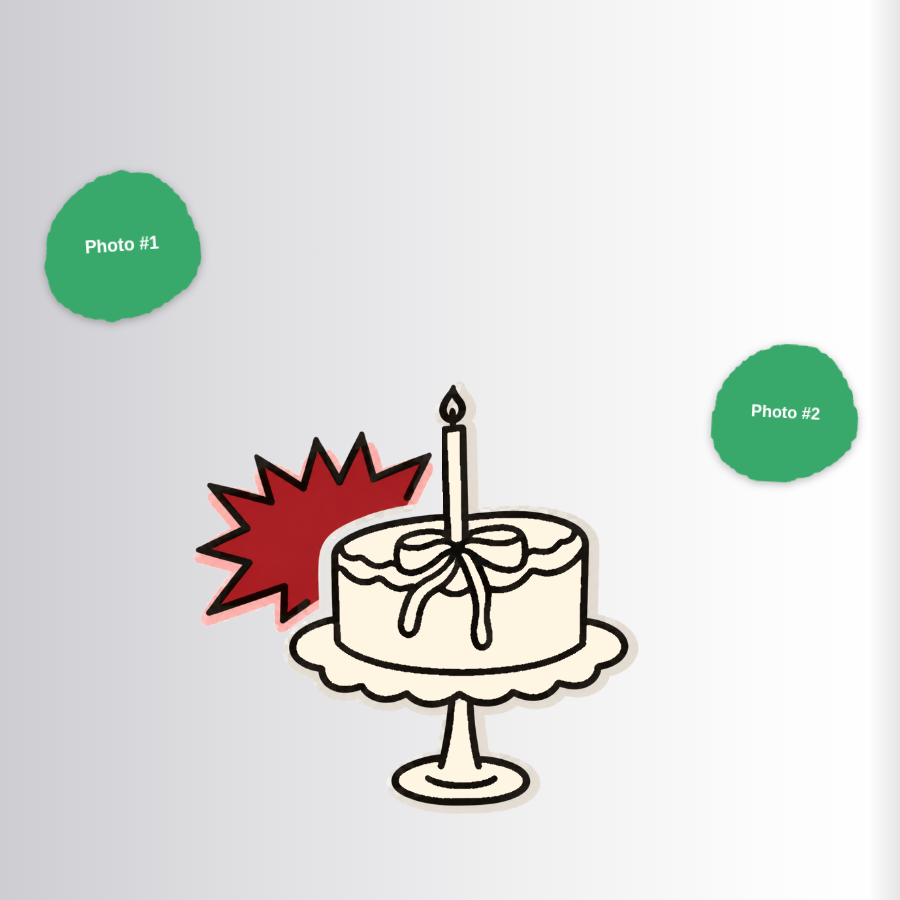
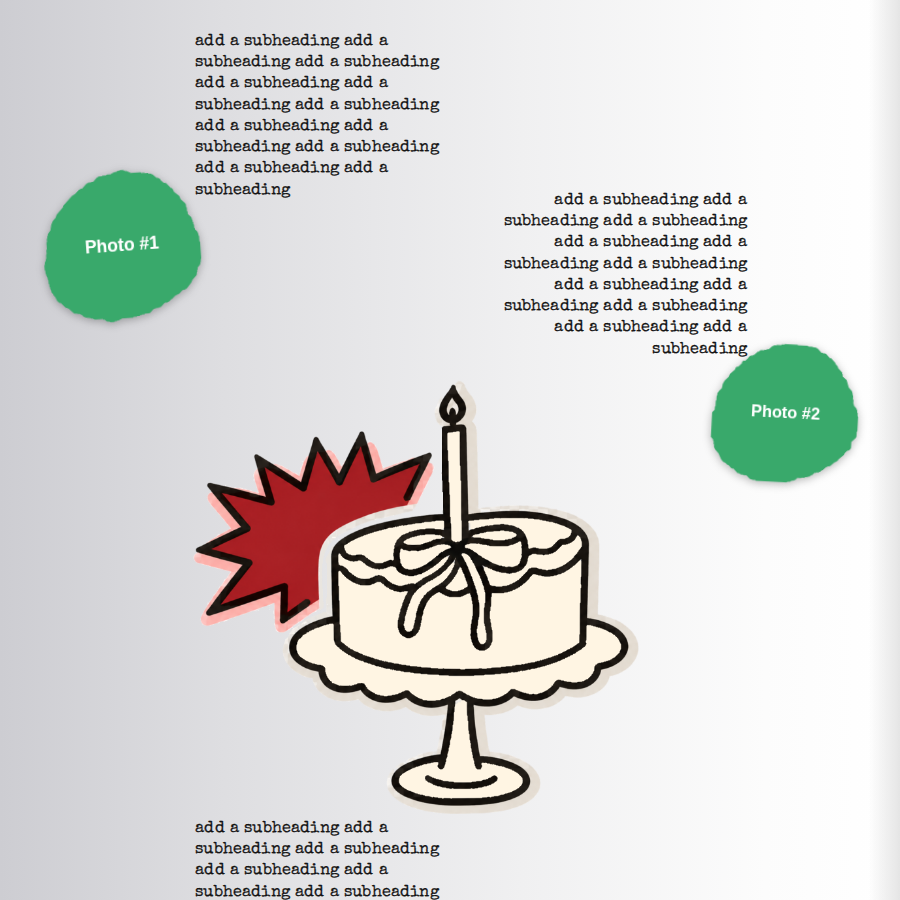
Fix exact website template previews
Decode the original embedded HTML at build time, wait for template content before capture, and regenerate real template preview screenshots instead of blank fallback covers.

Changed region(s): [[0.56, 0.2178, 0.84, 0.4044], [0.2178, 0.0311, 0.4978, 0.2178], [0.2178, 0.9022, 0.4978, 1.0]]

diff --git a/src/components/website-templates/WebsiteTemplatePreviewRenderer.tsx b/src/components/website-templates/WebsiteTemplatePreviewRenderer.tsx
@@ -1,9 +1,7 @@
 "use client";
 
-import type { ReactNode } from "react";
+import { useEffect, useState, type ReactNode } from "react";
 import { BirthdayTodayTemplate } from "./BirthdayTodayTemplate";
-import { ForeverAndEverTemplate } from "./ForeverAndEverTemplate";
-import { LoveHeartTemplate } from "./LoveHeartTemplate";
 import { LoveOfMyLifeTemplate } from "./LoveOfMyLifeTemplate";
 import { OurCalendarTemplate } from "./OurCalendarTemplate";
 import { PhotoAlbumTemplate } from "./PhotoAlbumTemplate";
@@ -27,13 +25,95 @@ export function WebsiteTemplatePreviewRenderer({
 }: {
   slug: WebsiteTemplatePreviewSlug;
 }) {
+  const [previewReady, setPreviewReady] = useState(false);
+  const usesStaticHtml = slug === "love-heart" || slug === "forever-and-ever";
+
+  useEffect(() => {
+    let cancelled = false;
+
+    // The legacy animated templates use their exact static HTML in the iframe.
+    // The capture script verifies that source before opening this route; mark
+    // the outer shell ready after hydration and wait for the reveal animation.
+    if (usesStaticHtml) {
+      setPreviewReady(true);
+      return () => {
+        cancelled = true;
+      };
+    }
+
+    const waitForImages = async () => {
+      const images = Array.from(document.images);
+      images.forEach((image) => { image.loading = "eager"; });
+      await Promise.all(images.map(async (image) => {
+        if (!image.complete) {
+          await new Promise<void>((resolve) => {
+            image.addEventListener("load", () => resolve(), { once: true });
+            image.addEventListener("error", () => resolve(), { once: true });
+            window.setTimeout(resolve, 12_000);
+          });
+        }
+        if (image.currentSrc && image.complete && image.naturalWidth === 0) {
+          // A failed optional/remote image should not prevent the rest of the
+          // real template from being captured. Keep its natural fallback state.
+          console.warn(`Preview image could not be loaded: ${image.currentSrc}`);
+          return;
+        }
+        if (image.naturalWidth > 0 && typeof image.decode === "function") {
+          try {
+            await image.decode();
+          } catch {
+            console.warn(`Preview image could not be decoded: ${image.currentSrc}`);
+          }
+        }
+      }));
+    };
+
+    const finalize = async () => {
+      await Promise.race([
+        document.fonts?.ready ?? Promise.resolve(),
+        new Promise((resolve) => window.setTimeout(resolve, 5000)),
+      ]);
+      await waitForImages();
+      await new Promise<void>((resolve) => {
+        requestAnimationFrame(() => requestAnimationFrame(() => resolve()));
+      });
+      if (!cancelled) setPreviewReady(true);
+    };
+
+    void finalize().catch((error: unknown) => {
+      const message = error instanceof Error ? error.message : String(error);
+      document.documentElement.dataset.templatePreviewError = message;
+      console.error(message);
+    });
+
+    return () => {
+      cancelled = true;
+    };
+  }, [slug, usesStaticHtml]);
+
   let template: ReactNode;
   switch (slug) {
     case "love-heart":
-      template = <LoveHeartTemplate />;
+      template = (
+        <iframe
+          title="Love Heart website preview"
+          src="/website-templates/love-heart.html"
+          sandbox="allow-scripts"
+          referrerPolicy="no-referrer"
+          style={{ position: "absolute", inset: 0, width: "100%", height: "100%", border: 0 }}
+        />
+      );
       break;
     case "forever-and-ever":
-      template = <ForeverAndEverTemplate />;
+      template = (
+        <iframe
+          title="I love you forever and ever, my baby! website preview"
+          src="/website-templates/forever-and-ever.html"
+          sandbox="allow-scripts"
+          referrerPolicy="no-referrer"
+          style={{ position: "absolute", inset: 0, width: "100%", height: "100%", border: 0 }}
+        />
+      );
       break;
     case "our-calendar":
       template = <OurCalendarTemplate />;
@@ -54,7 +134,7 @@ export function WebsiteTemplatePreviewRenderer({
 
   return (
     <div
-      data-template-preview-ready="true"
+      data-template-preview-ready={previewReady ? "true" : undefined}
       data-template-preview-slug={slug}
       style={{
         position: "relative",

diff --git a/src/components/website-templates/LoveHeartTemplate.tsx b/src/components/website-templates/LoveHeartTemplate.tsx
@@ -5,7 +5,7 @@ import type { TemplatePublicationValues } from "@/lib/publications";
 import styles from "./LoveHeartTemplate.module.css";
 
 const BASE_PATH = process.env.NEXT_PUBLIC_BASE_PATH ?? "";
-const ANIMATION_URL = `${BASE_PATH}/website-templates/love-heart.html.gz.b64`;
+const ANIMATION_URL = `${BASE_PATH}/website-templates/love-heart.html`;
 const EMPTY_DOCUMENT =
   '<!doctype html><html><head><meta name="viewport" content="width=device-width,initial-scale=1"><style>html,body{width:100%;height:100%;margin:0;background:#060208;overflow:hidden}</style></head><body></body></html>';
 const DEFAULT_LOVE_MESSAGE = "I Love You, Your Loved One Name♡";
@@ -34,6 +34,9 @@ export function LoveHeartTemplate({
   onExit,
 }: Props) {
   const [html, setHtml] = useState<string>(EMPTY_DOCUMENT);
+  const [previewFrameReady, setPreviewFrameReady] = useState(false);
+  const [templateSourceLoaded, setTemplateSourceLoaded] = useState(false);
+  const [templateSourceError, setTemplateSourceError] = useState<string | null>(null);
   const iframeRef = useRef<HTMLIFrameElement>(null);
   const iframeReady = useRef(false);
   const latestValues = useRef(values);
@@ -48,13 +51,7 @@ export function LoveHeartTemplate({
     fetch(ANIMATION_URL, { cache: "force-cache" })
       .then(async (response) => {
         if (!response.ok) throw new Error("Could not load the Love Heart animation.");
-        const encoded = (await response.text()).trim();
-        const binary = window.atob(encoded);
-        const buffer = new ArrayBuffer(binary.length);
-        const bytes = new Uint8Array(buffer);
-        for (let i = 0; i < binary.length; i += 1) bytes[i] = binary.charCodeAt(i);
-        const stream = new Blob([buffer]).stream().pipeThrough(new DecompressionStream("gzip"));
-        return new Response(stream).text();
+        return response.text();
       })
       .then((source) => {
         // The iframe is sandboxed without same-origin access. postMessage is
@@ -143,11 +140,19 @@ export function LoveHeartTemplate({
         const bridged = bodyClose >= 0
           ? source.slice(0, bodyClose) + bridgeScript + source.slice(bodyClose)
           : source + bridgeScript;
-        if (alive) setHtml(bridged);
+        if (alive) {
+          setHtml(bridged);
+          setTemplateSourceError(null);
+          setTemplateSourceLoaded(true);
+        }
       })
-      .catch(() => {
-        // Keep the template's dark canvas surface if the static page cannot load.
-        if (alive) setHtml(EMPTY_DOCUMENT);
+      .catch((error: unknown) => {
+        const message = error instanceof Error ? error.message : String(error);
+        console.error("[LoveHeartTemplate] Failed to load original template HTML.", error);
+        if (alive) {
+          setTemplateSourceError(message);
+          setHtml(EMPTY_DOCUMENT);
+        }
       });
 
     return () => {
@@ -164,6 +169,7 @@ export function LoveHeartTemplate({
 
       if (data.type === "ready") {
         iframeReady.current = true;
+        setPreviewFrameReady(true);
         const current = latestValues.current;
         frame.contentWindow?.postMessage(
           {
@@ -216,7 +222,12 @@ export function LoveHeartTemplate({
   }, [editing, html, values?.photoUrl, values?.loveMessage]);
 
   return (
-    <main className={styles.screen}>
+    <main
+      className={styles.screen}
+      data-template-preview-frame-ready={previewFrameReady ? "true" : undefined}
+      data-template-preview-source-loaded={templateSourceLoaded ? "true" : undefined}
+      data-template-preview-source-error={templateSourceError ?? undefined}
+    >
       <iframe
         ref={iframeRef}
         title="Love Heart — animated website"
@@ -224,6 +235,11 @@ export function LoveHeartTemplate({
         srcDoc={html}
         sandbox="allow-scripts"
         referrerPolicy="no-referrer"
+        onLoad={() => {
+          // The first load is the deliberately blank fallback document. Only
+          // mark the preview frame ready after the real fetched HTML is applied.
+          if (html !== EMPTY_DOCUMENT) setPreviewFrameReady(true);
+        }}
       />
       {editing && onExit && (
         <button

diff --git a/src/components/website-templates/ForeverAndEverTemplate.tsx b/src/components/website-templates/ForeverAndEverTemplate.tsx
@@ -5,7 +5,7 @@ import type { TemplatePublicationValues } from "@/lib/publications";
 import styles from "./ForeverAndEverTemplate.module.css";
 
 const BASE_PATH = process.env.NEXT_PUBLIC_BASE_PATH ?? "";
-const TEMPLATE_URL = `${BASE_PATH}/website-templates/forever-and-ever.html.gz.b64`;
+const TEMPLATE_URL = `${BASE_PATH}/website-templates/forever-and-ever.html`;
 const EMPTY_DOCUMENT = '<!doctype html><html><head><meta name="viewport" content="width=device-width,initial-scale=1"><style>html,body{width:100%;height:100%;margin:0;background:#e9edf5;overflow:hidden}</style></head><body></body></html>';
 export const FOREVER_AND_EVER_TEXT_DEFAULTS = {
   heading: "I love you forever\nand ever, my baby !",
@@ -59,6 +59,9 @@ export function ForeverAndEverTemplate({
   onExit,
 }: Props) {
   const [html, setHtml] = useState(EMPTY_DOCUMENT);
+  const [previewFrameReady, setPreviewFrameReady] = useState(false);
+  const [templateSourceLoaded, setTemplateSourceLoaded] = useState(false);
+  const [templateSourceError, setTemplateSourceError] = useState<string | null>(null);
   const iframeRef = useRef<HTMLIFrameElement>(null);
   const iframeReady = useRef(false);
   const latestValues = useRef(values);
@@ -74,19 +77,22 @@ export function ForeverAndEverTemplate({
     fetch(TEMPLATE_URL, { cache: "force-cache" })
       .then(async (response) => {
         if (!response.ok) throw new Error("Could not load the original love-letter template.");
-        const encoded = (await response.text()).trim();
-        const binary = window.atob(encoded);
-        const buffer = new ArrayBuffer(binary.length);
-        const bytes = new Uint8Array(buffer);
-        for (let i = 0; i < binary.length; i += 1) bytes[i] = binary.charCodeAt(i);
-        const stream = new Blob([buffer]).stream().pipeThrough(new DecompressionStream("gzip"));
-        return new Response(stream).text();
+        return response.text();
       })
       .then((source) => {
-        if (alive) setHtml(source);
+        if (alive) {
+          setHtml(source);
+          setTemplateSourceError(null);
+          setTemplateSourceLoaded(true);
+        }
       })
-      .catch(() => {
-        if (alive) setHtml(EMPTY_DOCUMENT);
+      .catch((error: unknown) => {
+        const message = error instanceof Error ? error.message : String(error);
+        console.error("[ForeverAndEverTemplate] Failed to load original template HTML.", error);
+        if (alive) {
+          setTemplateSourceError(message);
+          setHtml(EMPTY_DOCUMENT);
+        }
       });
     return () => { alive = false; };
   }, []);
@@ -104,6 +110,7 @@ export function ForeverAndEverTemplate({
 
       if (data.type === "paper-stish:template-ready") {
         iframeReady.current = true;
+        setPreviewFrameReady(true);
         const current = latestValues.current;
         const currentText = resolveForeverAndEverText(current);
         lastFrameText.current = textState(current);
@@ -168,7 +175,12 @@ export function ForeverAndEverTemplate({
   }, [editing]);
 
   return (
-    <main className={styles.screen}>
+    <main
+      className={styles.screen}
+      data-template-preview-frame-ready={previewFrameReady ? "true" : undefined}
+      data-template-preview-source-loaded={templateSourceLoaded ? "true" : undefined}
+      data-template-preview-source-error={templateSourceError ?? undefined}
+    >
       <iframe
         ref={iframeRef}
         title="I love you forever and ever, my baby!"
@@ -176,6 +188,11 @@ export function ForeverAndEverTemplate({
         srcDoc={html}
         sandbox="allow-scripts"
         referrerPolicy="no-referrer"
+        onLoad={() => {
+          // The first load is the deliberately blank fallback document. Only
+          // mark the preview frame ready after the real fetched HTML is applied.
+          if (html !== EMPTY_DOCUMENT) setPreviewFrameReady(true);
+        }}
       />
       {editing && onExit && (
         <button type="button" className={styles.backButton} onClick={onExit} aria-label="Back to website templates">
